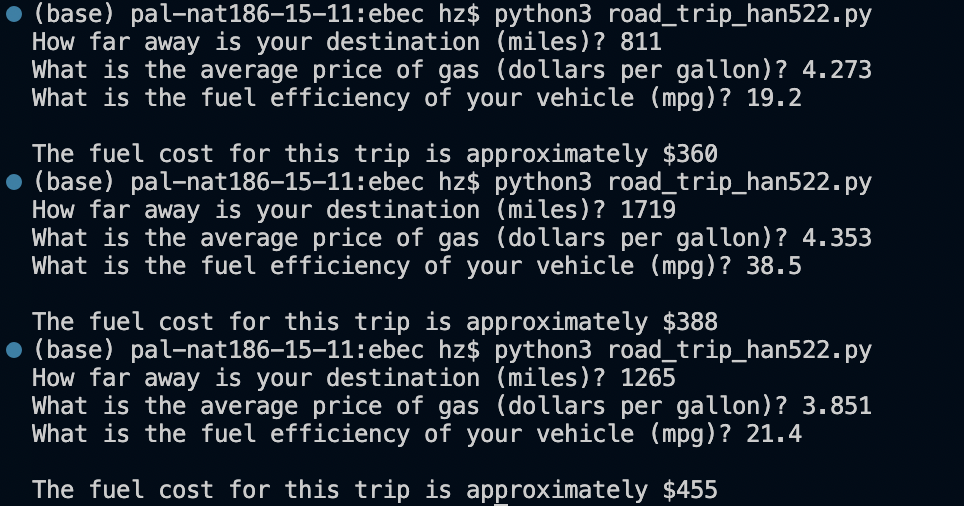
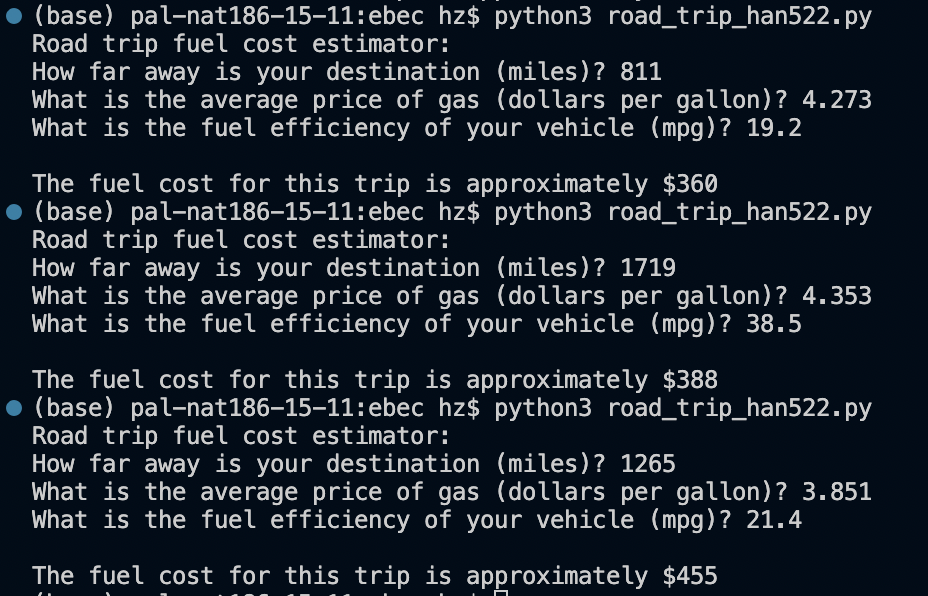
Add files via upload

diff --git a/road_trip_han522.py b/road_trip_han522.py
@@ -1,0 +1,52 @@
+"""
+Author: Near Han, han522@purdue.edu
+Assignment: 00.1 - Hello User
+Date: 09/04/2022
+
+Description:
+    This program intakes diatance, price and fuel efficiency from user to calculate the
+    total fuel price of the trip.
+
+Contributors:
+    N/A
+
+My contributor(s) helped me:
+    [ ] understand the assignment expectations without
+        telling me how they will approach it.
+    [ ] understand different ways to think about a solution
+        without helping me plan my solution.
+    [ ] think through the meaning of a specific error or
+        bug present in my code without looking at my code.
+    Note that if you helped somebody else with their code, you
+    have to list that person as a contributor.
+
+Academic Integrity Statement:
+    I have not used source code obtained from any unauthorized
+    source, either modified or unmodified; nor have I provided
+    another student access to my code.  The project I am
+    submitting is my own original work.
+"""
+
+"""Import additional modules below this line (starting with unit 6)."""
+
+
+"""Write new functions below this line (starting with unit 4)."""
+
+
+def main():
+    print("Road trip fuel cost estimator:")
+    #Ask for distance to destination
+    dis = float(input("How far away is your destination (miles)? "))
+    #Ask for average gas price
+    price = float(input("What is the average price of gas (dollars per gallon)? "))
+    #Ask for fuel efficiency
+    mpg = float(input("What is the fuel efficiency of your vehicle (mpg)? "))
+    #Calculate fuel cost
+    cost = int(2 * dis * price / mpg)
+    #Return
+    print(f"\nThe fuel cost for this trip is approximately ${cost}")
+
+
+"""Do not change anything below this line."""
+if __name__ == "__main__":
+    main()
